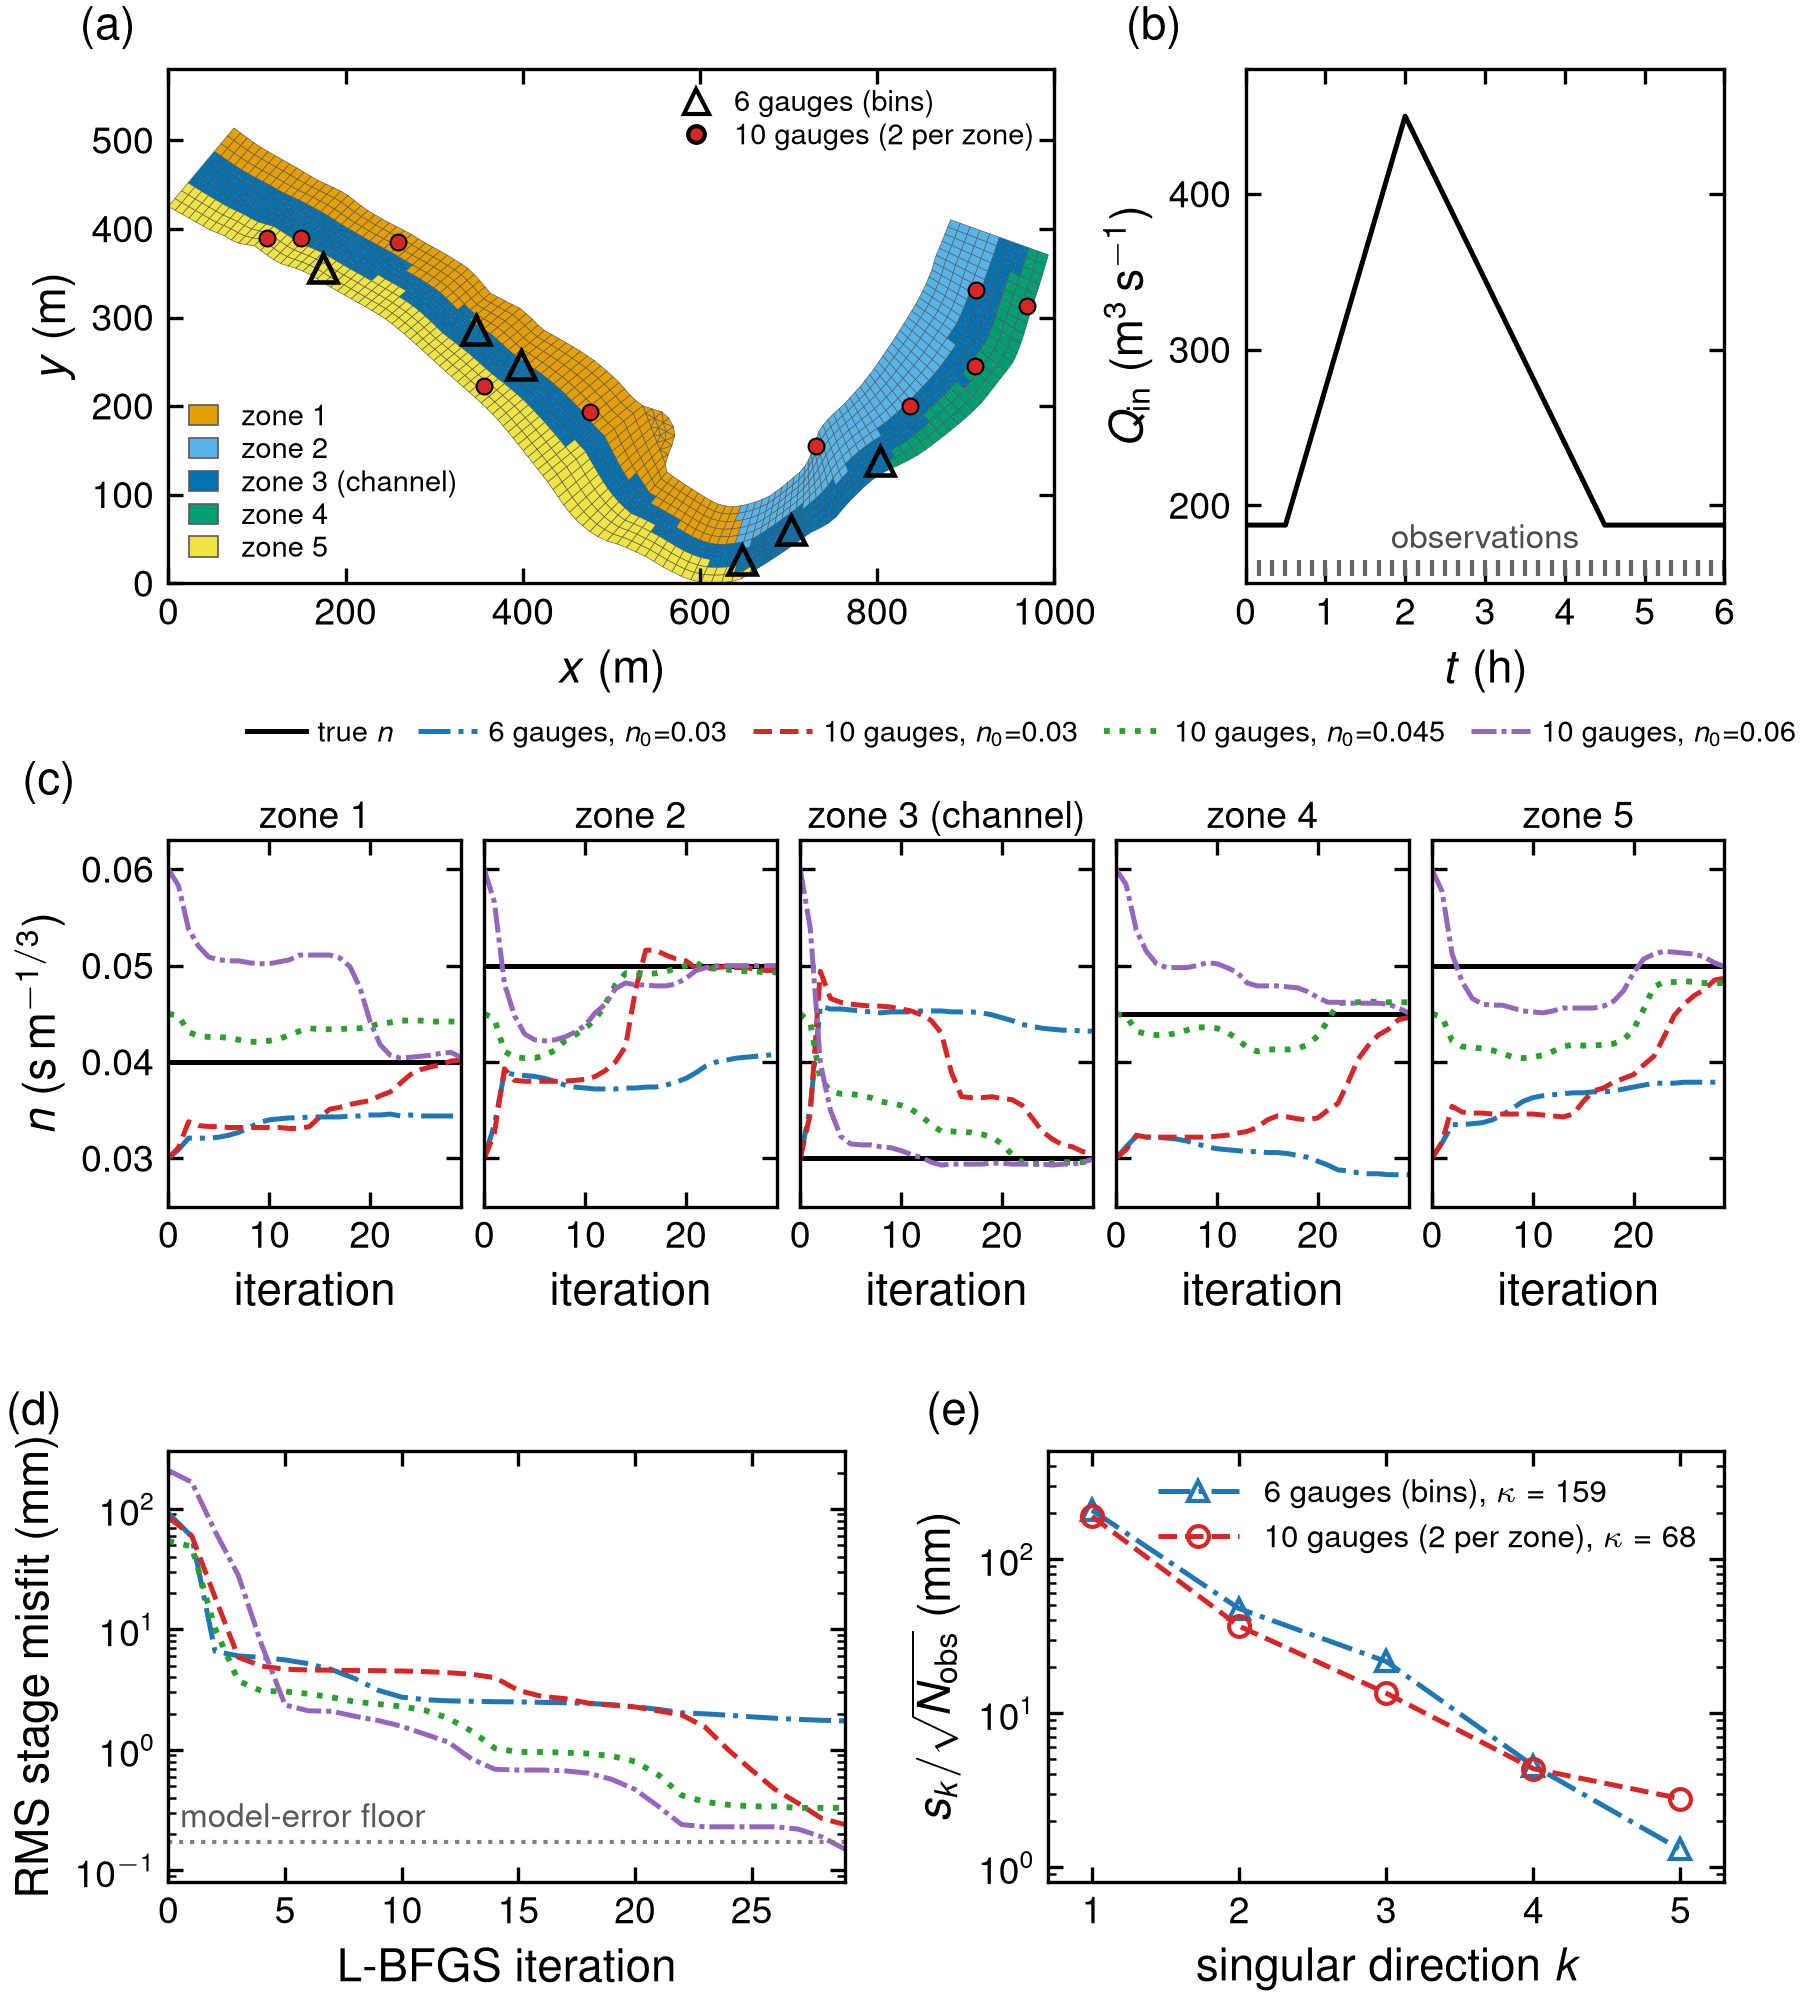
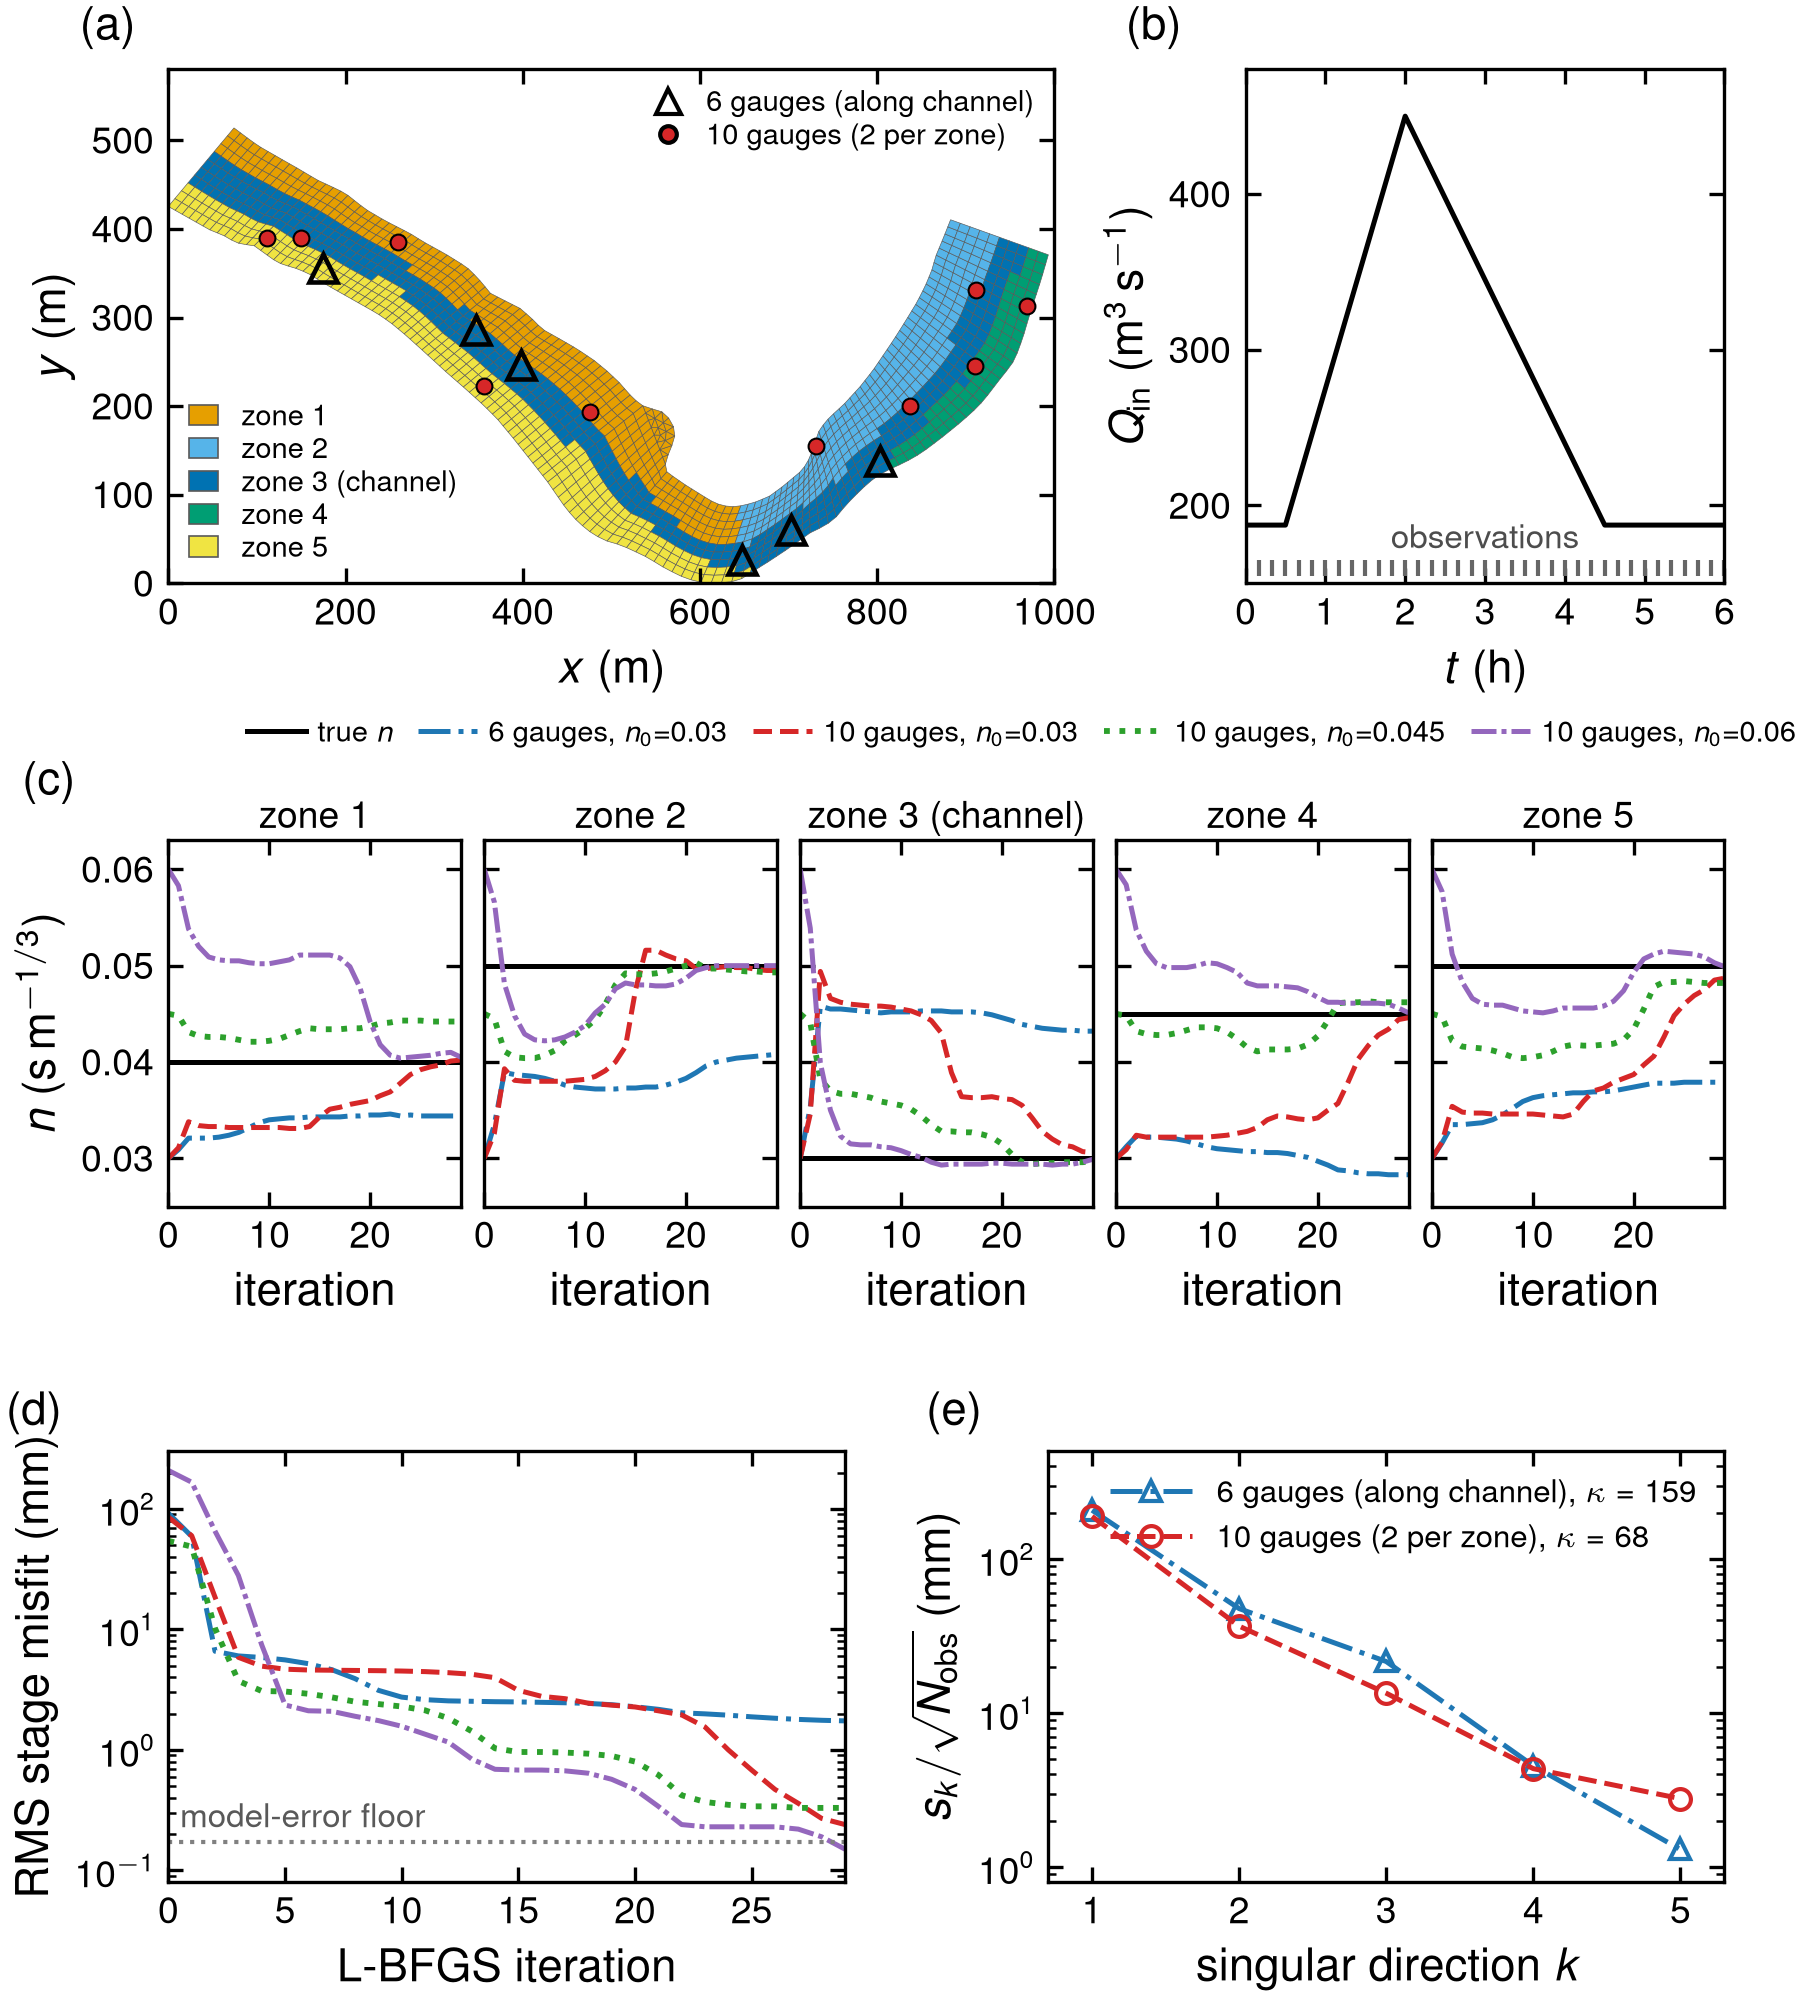
docs(paper): Figure 8 labels the six-gauge layout 'along channel' instead of 'bins'

Changed region(s): [[0.3707, 0.031, 0.556, 0.0931], [0.6178, 0.7451, 0.9266, 0.7762]]

diff --git a/paper/fig08_savannah_unsteady.py b/paper/fig08_savannah_unsteady.py
@@ -126,7 +126,7 @@ def plot_mesh_zones(ax: plt.Axes, data: np.lib.npyio.NpzFile) -> None:
                             labelspacing=0.2, borderaxespad=0.3)
     ax.add_artist(zone_legend)
     gauge_handles = [
-        Line2D([], [], marker="^", ls="none", mfc="none", mec="k", ms=6, label="6 gauges (bins)"),
+        Line2D([], [], marker="^", ls="none", mfc="none", mec="k", ms=6, label="6 gauges (along channel)"),
         Line2D([], [], marker="o", ls="none", mfc="tab:red", mec="k", ms=4,
                label="10 gauges (2 per zone)"),
     ]
@@ -212,7 +212,7 @@ def plot_singular_values(ax: plt.Axes, ident: dict, n_obs: dict) -> dict:
         Scaled singular values (mm per unit log n) per layout.
     """
     scaled = {}
-    styles = {"bins": (MODEL_2, "^", "6 gauges (bins)"),
+    styles = {"bins": (MODEL_2, "^", "6 gauges (along channel)"),
               "zones": (MODEL, "o", "10 gauges (2 per zone)")}
     k = np.arange(1, 6)
     for layout, (style, marker, label) in styles.items():
